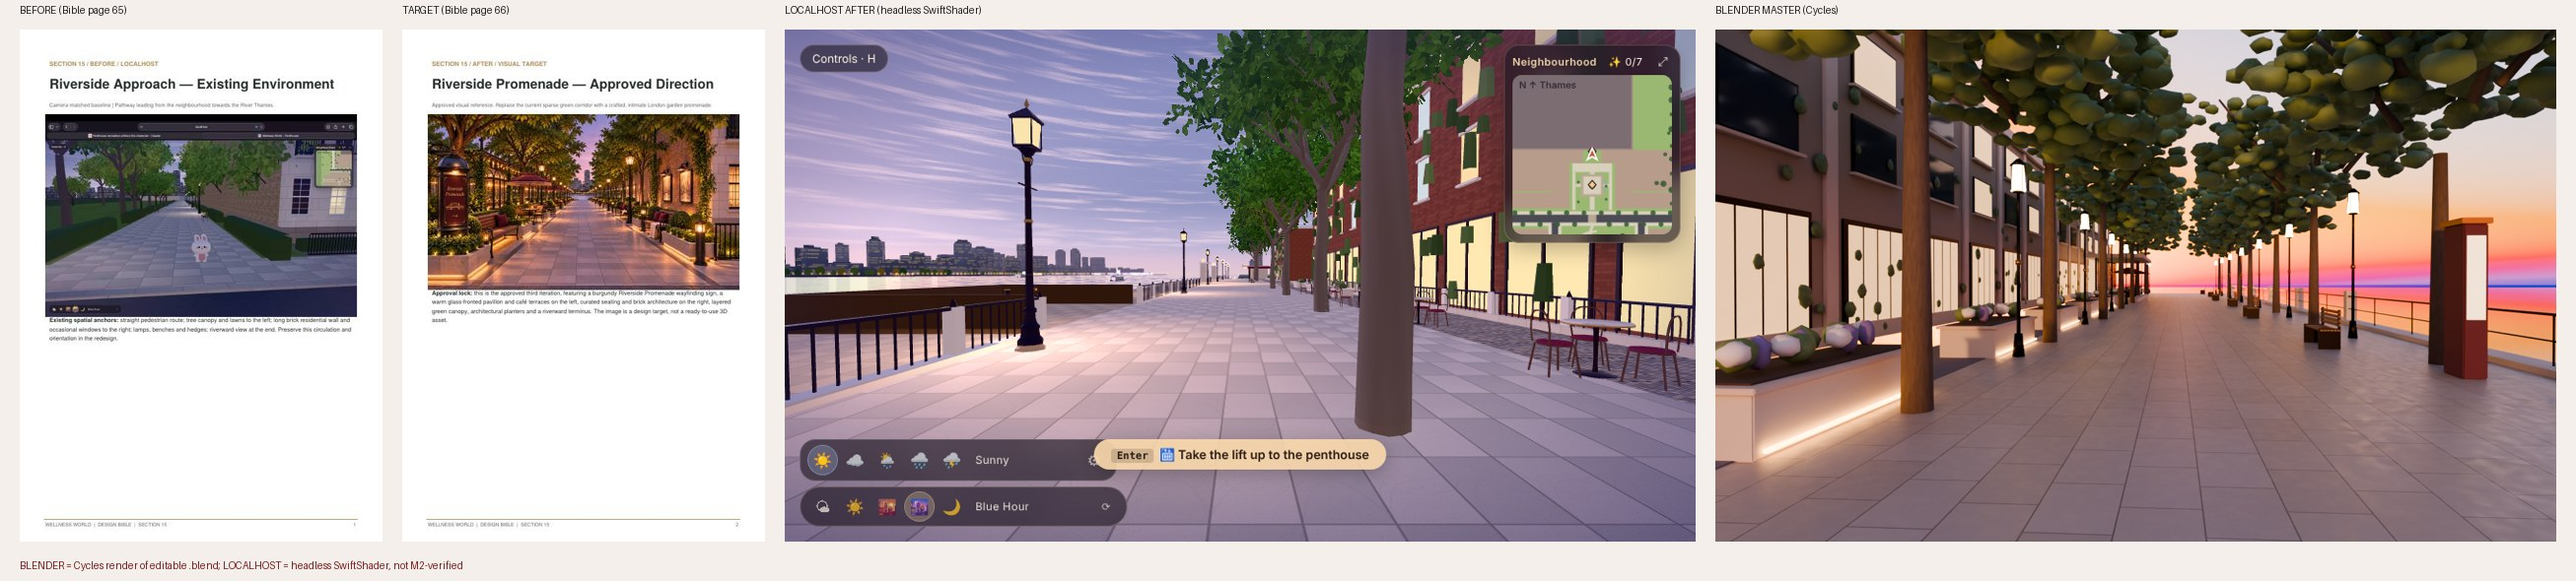
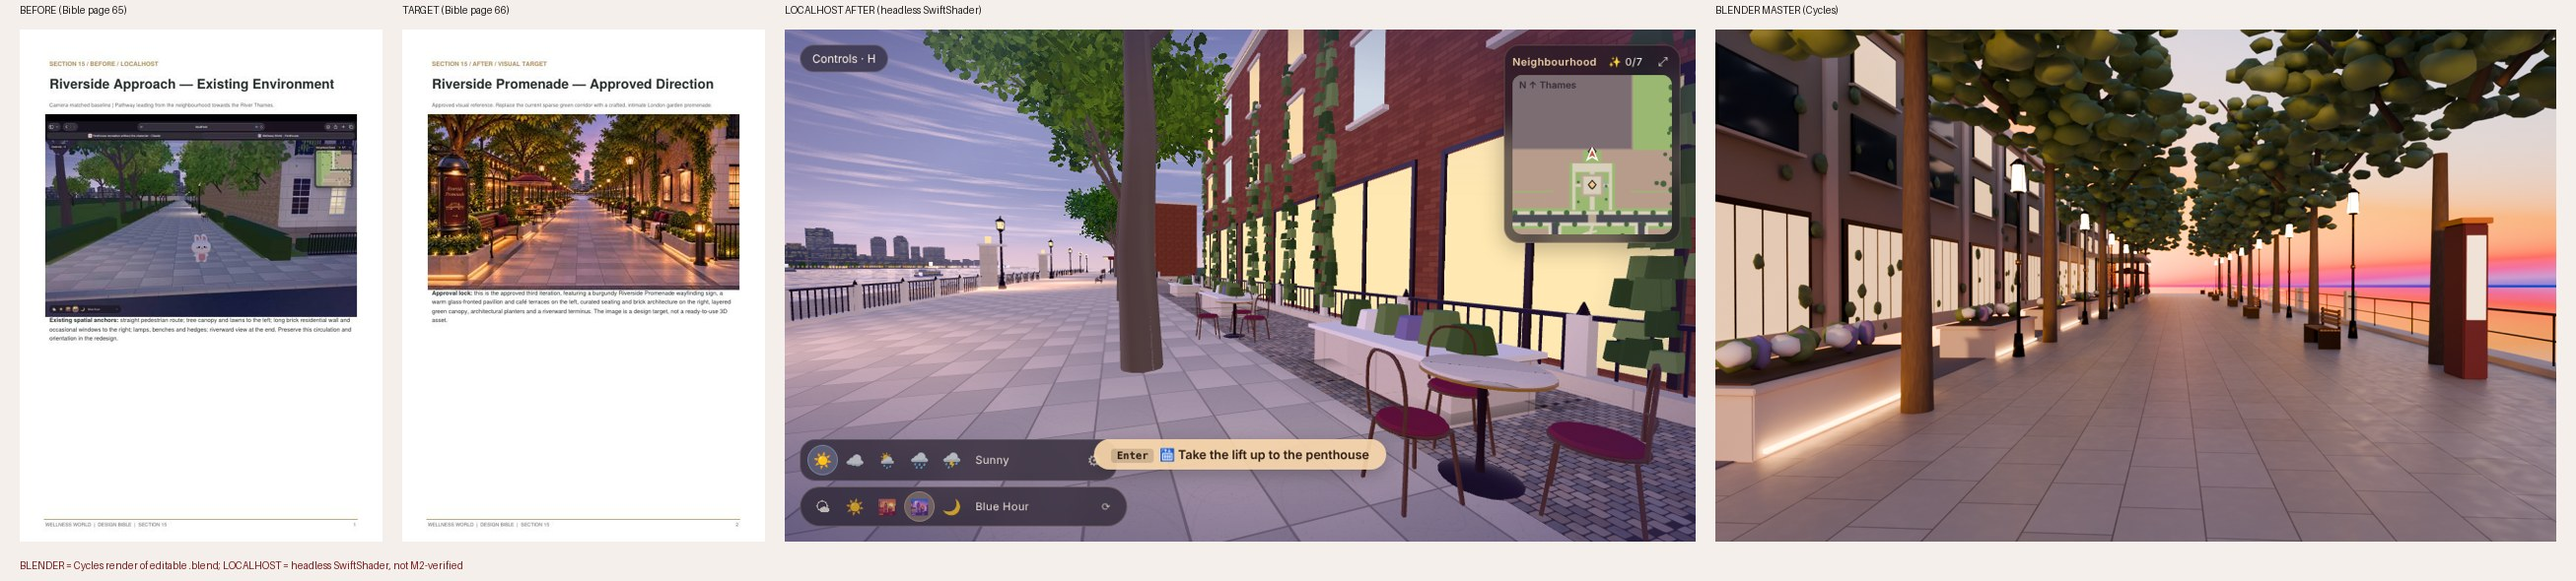
s15: ivy vines evidence + log
Claude-Session: https://claude.ai/code/session_017ZtboRbFUCo4FCo9fUW3pH

Changed region(s): [[0.279, 0.0305, 0.682, 0.9458], [0.403, 0.8237, 0.465, 0.8542], [0.496, 0.8847, 0.527, 0.9153]]

diff --git a/docs/bible/S15_BENCHMARK.md b/docs/bible/S15_BENCHMARK.md
@@ -16,8 +16,8 @@ Evidence: `evidence/s15_riverside_4way.jpg` (BEFORE p.65 / TARGET p.66 / LOCALHO
 1. Shopfront glass is a flat cream plane: no interior depth, mullions only, no warm interior props.
 2. Tree canopies still sparser than the dense overhead canopy in the target; no fairy-light strings.
 3. Burgundy-canopied glass pavilion and terrace seating now **integrated** (evidence: s15_pavilion_bluehour.png); seating now uses the Blender-made bistro tables and bentwood chairs; canopy densified (15 cards/tip); still missing wall-mounted lanterns, hedges between trees, fairy lights.
-4. Ivy is blocky prisms (6-sided); needs leaf-card clusters.
-5. Paving is the generic slab texture; no warm light pools on the stone from lamps/windows at blue hour.
+4. Ivy now vine strands of small clumps (reads as climbing ivy); still prisms, not leaf cards.
+5. Paving, brick, ashlar and sett now use Blender-baked albedo+normal sets (`bake_textures.py`); remaining:  no warm light pools on the stone from lamps/windows at blue hour.
 6. Sky/river grade is cooler and less saturated than the target sunset; no bloom/halation (postprocessing absent).
 7. Blender master: foliage still blobby, sky more saturated than target, windows blown-out.
 
